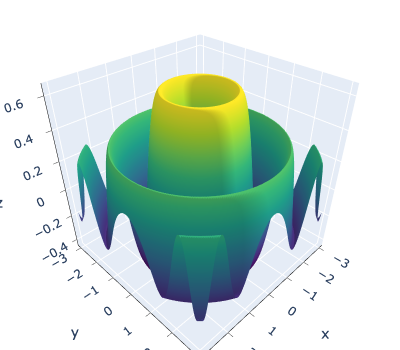
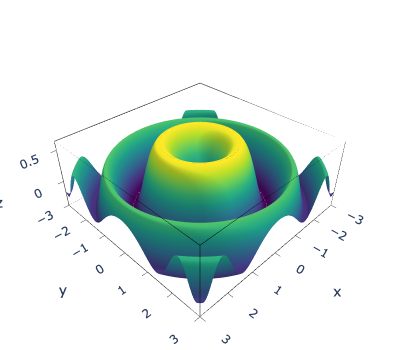
Update boxratios

diff --git a/render.py b/render.py
@@ -115,6 +115,7 @@ class FigureBuilder:
     @util.Timer("figure")
     def figure(self):
 
+        # compute data_range
         with util.Timer("data_range"):
             if self.dim == 3:
                 data = np.hstack([(trace.x, trace.y, trace.z) for trace in self.data])
@@ -127,32 +128,42 @@ class FigureBuilder:
 
         plot_range = [s if s is not None else d for s, d in zip(self.options.plot_range, data_range)]
 
-        # TODO: make consistent with dim==3
-        def axis(show, range, title):
-            axis = dict(showspikes=False, ticks="outside", range=range, title=title, linecolor="black")
-            if not show:
-                axis |= dict(visible=False, showline=False, ticks=None, showticklabels=False)
-            return axis
-
         if self.dim == 2:
+
+            opts = {}
+            for i, p in enumerate("xy"):
+                opts[p+"axis"] = dict(
+                    visible = self.options.axes[i],
+                    showspikes = False,
+                    ticks="outside",
+                    range = self.options.plot_range[i],
+                    #title = p,
+                    linecolor = "black",
+                    #showline = False
+                    #ticks = None
+                    #showticklabels=False
+                )
+
             layout = go.Layout(
                 margin = dict(l=0, r=0, t=0, b=0),
+                title=dict(text=""),  # Explicitly set title text to an empty string
                 plot_bgcolor='rgba(0,0,0,0)',
                 width=self.options.image_size[0],
                 height=self.options.image_size[1],
-                xaxis = axis(self.options.axes[0], plot_range[0], None),
-                yaxis = axis(self.options.axes[1], plot_range[1], None),
+                **opts
             )
 
         elif self.dim == 3:
-
-            scene = dict(aspectmode="cube")
 
             if self.options.boxed:
                 vertices = np.array(np.meshgrid(*plot_range)).reshape((3,-1)).T
                 lines = [(i, i^k) for i in range(8) for k in [1,2,4] if not i&k]
                 self.add_lines(vertices, lines)
 
+            scene = dict(
+                aspectmode = "manual",
+                aspectratio = {p: self.options.box_ratios[i] for i, p in enumerate("xyz")},
+            )
             for i, p in enumerate("xyz"):
                 scene[p+"axis"] = dict(
                     visible = self.options.axes[i],
@@ -167,10 +178,10 @@ class FigureBuilder:
                 )
             layout = go.Layout(
                 margin = dict(l=0, r=0, t=0, b=0),
-                plot_bgcolor='rgba(0,0,0,0)',
+                plot_bgcolor = "red", #'rgba(0,0,0,0)',
                 width=self.options.image_size[0],
                 height=self.options.image_size[1],
-                scene = scene
+                scene = scene,
             )
 
         with util.Timer("FigureWidget"):

diff --git a/test.py b/test.py
@@ -43,8 +43,8 @@ def differ(fn_im1, fn_im2):
         fig.canvas.manager.window.move(10, 100)
         axes = fig.subplots(1, 3)
 
-    im1 = skimage.io.imread(fn_im1) if os.path.exists(fn_im1) else None
-    im2 = skimage.io.imread(fn_im2) if os.path.exists(fn_im2) else None
+    im1 = skimage.io.imread(fn_im1)[:,:,0:3] if os.path.exists(fn_im1) else None
+    im2 = skimage.io.imread(fn_im2)[:,:,0:3] if os.path.exists(fn_im2) else None
     
     difference = None
 
@@ -77,8 +77,9 @@ def differ(fn_im1, fn_im2):
         show(0, im1, fn_im1)
         show(1, im2, fn_im2)
         if im1 is not None and im2 is not None:
-            im2 = skimage.transform.resize(im2, im1.shape[0:2])
-            show(2, abs(im2-im1).astype(int), "diff")
+            #im2 = skimage.transform.resize(im2, im1.shape[0:2])
+            diff = abs(im2-im1).astype(int)
+            show(2, diff, "diff")
 
         plt.tight_layout()
         plt.waitforbuttonpress()

diff --git a/consumer.py b/consumer.py
@@ -81,6 +81,10 @@ class GraphicsOptions:
             # Boxed
             self.boxed = get_option("System`Boxed")
 
+            # BoxRatios
+            self.box_ratios = get_option("System`BoxRatios")            
+
+
         # full set - comment out as implemented
         alignment_point = get_option("System`AlignmentPoint")
         aspect_ratio = get_option("System`AspectRatio")
@@ -133,7 +137,7 @@ class GraphicsOptions:
             view_point = get_option("System`ViewPoint")
             axes_edge = get_option("System`AxesEdge")
             rotation_action = get_option("System`RotationAction")
-            box_ratios = get_option("System`BoxRatios")
+            #box_ratios = get_option("System`BoxRatios")
             controller_path = get_option("System`ControllerPath")
             box_style = get_option("System`BoxStyle")
             face_grids = get_option("System`FaceGrids")
